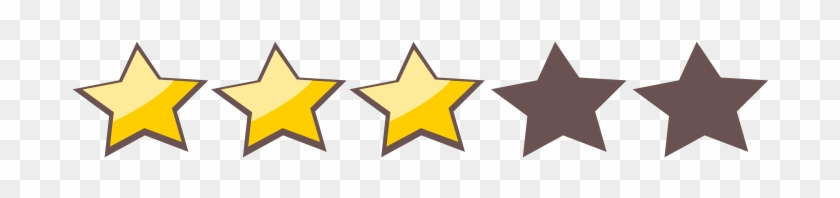
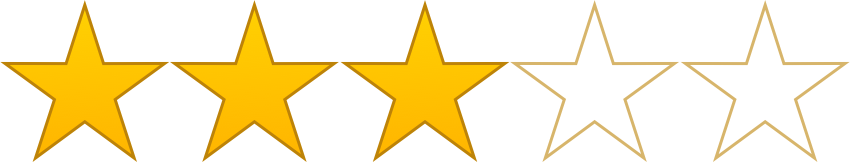
more responsive

diff --git a/components/Projects.tsx b/components/Projects.tsx
@@ -34,7 +34,7 @@ function Projects({}: Props) {
       }}
       className="h-screen relative flex overflow-hidden flex-col text-left md:flex-row max-w-full justify-evenly mx-auto items-center z-0 "
     >
-      <h3 className="absolute top-12 uppercase tracking-[20px] text-gray-500 text-2xl text-center">
+      <h3 className="absolute top-12 uppercase tracking-[20px] text-gray-500 text-2xl text-center hidden xl:block">
         Proyectos
       </h3>
       <div className="relative w-full flex overflow-x-scroll overflow-y-hidden snap-x snap-mandatory z-20 scrollbar scrollbar-track-gray-400/20 scrollbar-thumb-[#F7AB0A]/80">
@@ -42,7 +42,7 @@ function Projects({}: Props) {
         {trabajos.map((trabajo, i) => (
           <div className="w-screen flex-shrink-0 snap-center flex flex-col space-y-5 items-center justify-center p-20 md:p-44 h-screen">
             <Link href={trabajo.url} target="_blank">
-              <img className="h-80 mt-10 border-solid border-2 border-primary" src={`/${trabajo.id}.jpg`} alt="" />
+              <img className="h-60 mt-10 " src={`/${trabajo.id}.jpg`} alt="" />
             </Link>
             <div className="space-y-10 px-0 md:px-10 max-w-6xl">
               <Link

diff --git a/components/Contact.tsx b/components/Contact.tsx
@@ -21,7 +21,7 @@ function Contact({}: Props) {
 
   return (
     <div className="h-screen flex relative flex-col text-center md:text-left md:flex-row max-w-7xl px-10 justify-evenly mx-auto items-center  ">
-      <h3 className="absolute top-12 uppercase tracking-[20px] text-gray-500 text-2xl">
+      <h3 className="absolute top-12 uppercase tracking-[20px] text-gray-500 text-2xl hidden md:block xl:block">
         Contacta conmigo
       </h3>
       <div className="flex flex-col space-y-10">
@@ -39,7 +39,7 @@ function Contact({}: Props) {
             <tr />
           </div>
         </div>
-        <form onSubmit={handleSubmit(onSubmit)} className="flex flex-col space-y-2 w-fit mx-auto">
+        <form onSubmit={handleSubmit(onSubmit)} className="flex flex-col space-y-2 w-fit mx-auto ">
           <div className="flex space-x-2">
             <input {...register('Nombre')} className="contactInput" type="text" placeholder="Nombre" />
             <input {...register('Email')}

diff --git a/components/Skills.tsx b/components/Skills.tsx
@@ -25,7 +25,7 @@ export default function Skills({}: Props) {
         Pase el ratón sobre la skill para más info
       </h3>
       {/* SKILLS */}
-      <div className="grid grid-cols-4 gap-2">
+      <div className="grid grid-cols-3 gap-1 md:grid-cols-4 xl:grid-cols-4 mt-20">
         {/* HTML */}
         <div className="group relative flex cursor-pointer">
           <motion.img
@@ -334,7 +334,7 @@ export default function Skills({}: Props) {
               <p className="text-2xl font-bold text-black opacity-100 text-center">
                 VUE.JS
               </p>
-              <Image src="/3star.png" alt="" width="100" height="100" />
+              <Image src="/3stars.png" alt="" width="100" height="100" />
             </div>
           </div>
         </div>

diff --git a/components/About.tsx b/components/About.tsx
@@ -14,9 +14,9 @@ export default function About({}: Props) {
       transition={{
         duration: 3.5,
       }}
-      className="flex flex-col relative h-screen text-center md:text-left md:flex-row max-w-7xl px-10 justify-evenly mx-auto items-center"
+      className="flex flex-col relative h-screen text-center md:text-left md:flex-row max-w-7xl px-10 justify-evenly mx-auto items-center "
     >
-      <h3 className="absolute top-20 uppercase tracking-[20px] text-gray-500 text-2xl ">
+      <h3 className="absolute top-20 uppercase tracking-[20px] text-gray-500 text-2xl hidden md:block xl:block">
         Sobre mí
       </h3>
       <motion.img

diff --git a/components/Content.tsx b/components/Content.tsx
@@ -47,7 +47,7 @@ export default function Content({}: Props) {
         </h2>
         <h1 className="text-4xl lg:text-6xl font-semibold px-10">
           <span className="mr-3">{text}</span>
-          <Cursor cursorColor="secondary" />
+          <Cursor cursorColor="#F7AB0A" />
         </h1>
         <div className="pt-5 ">
           <Link href="#about">
